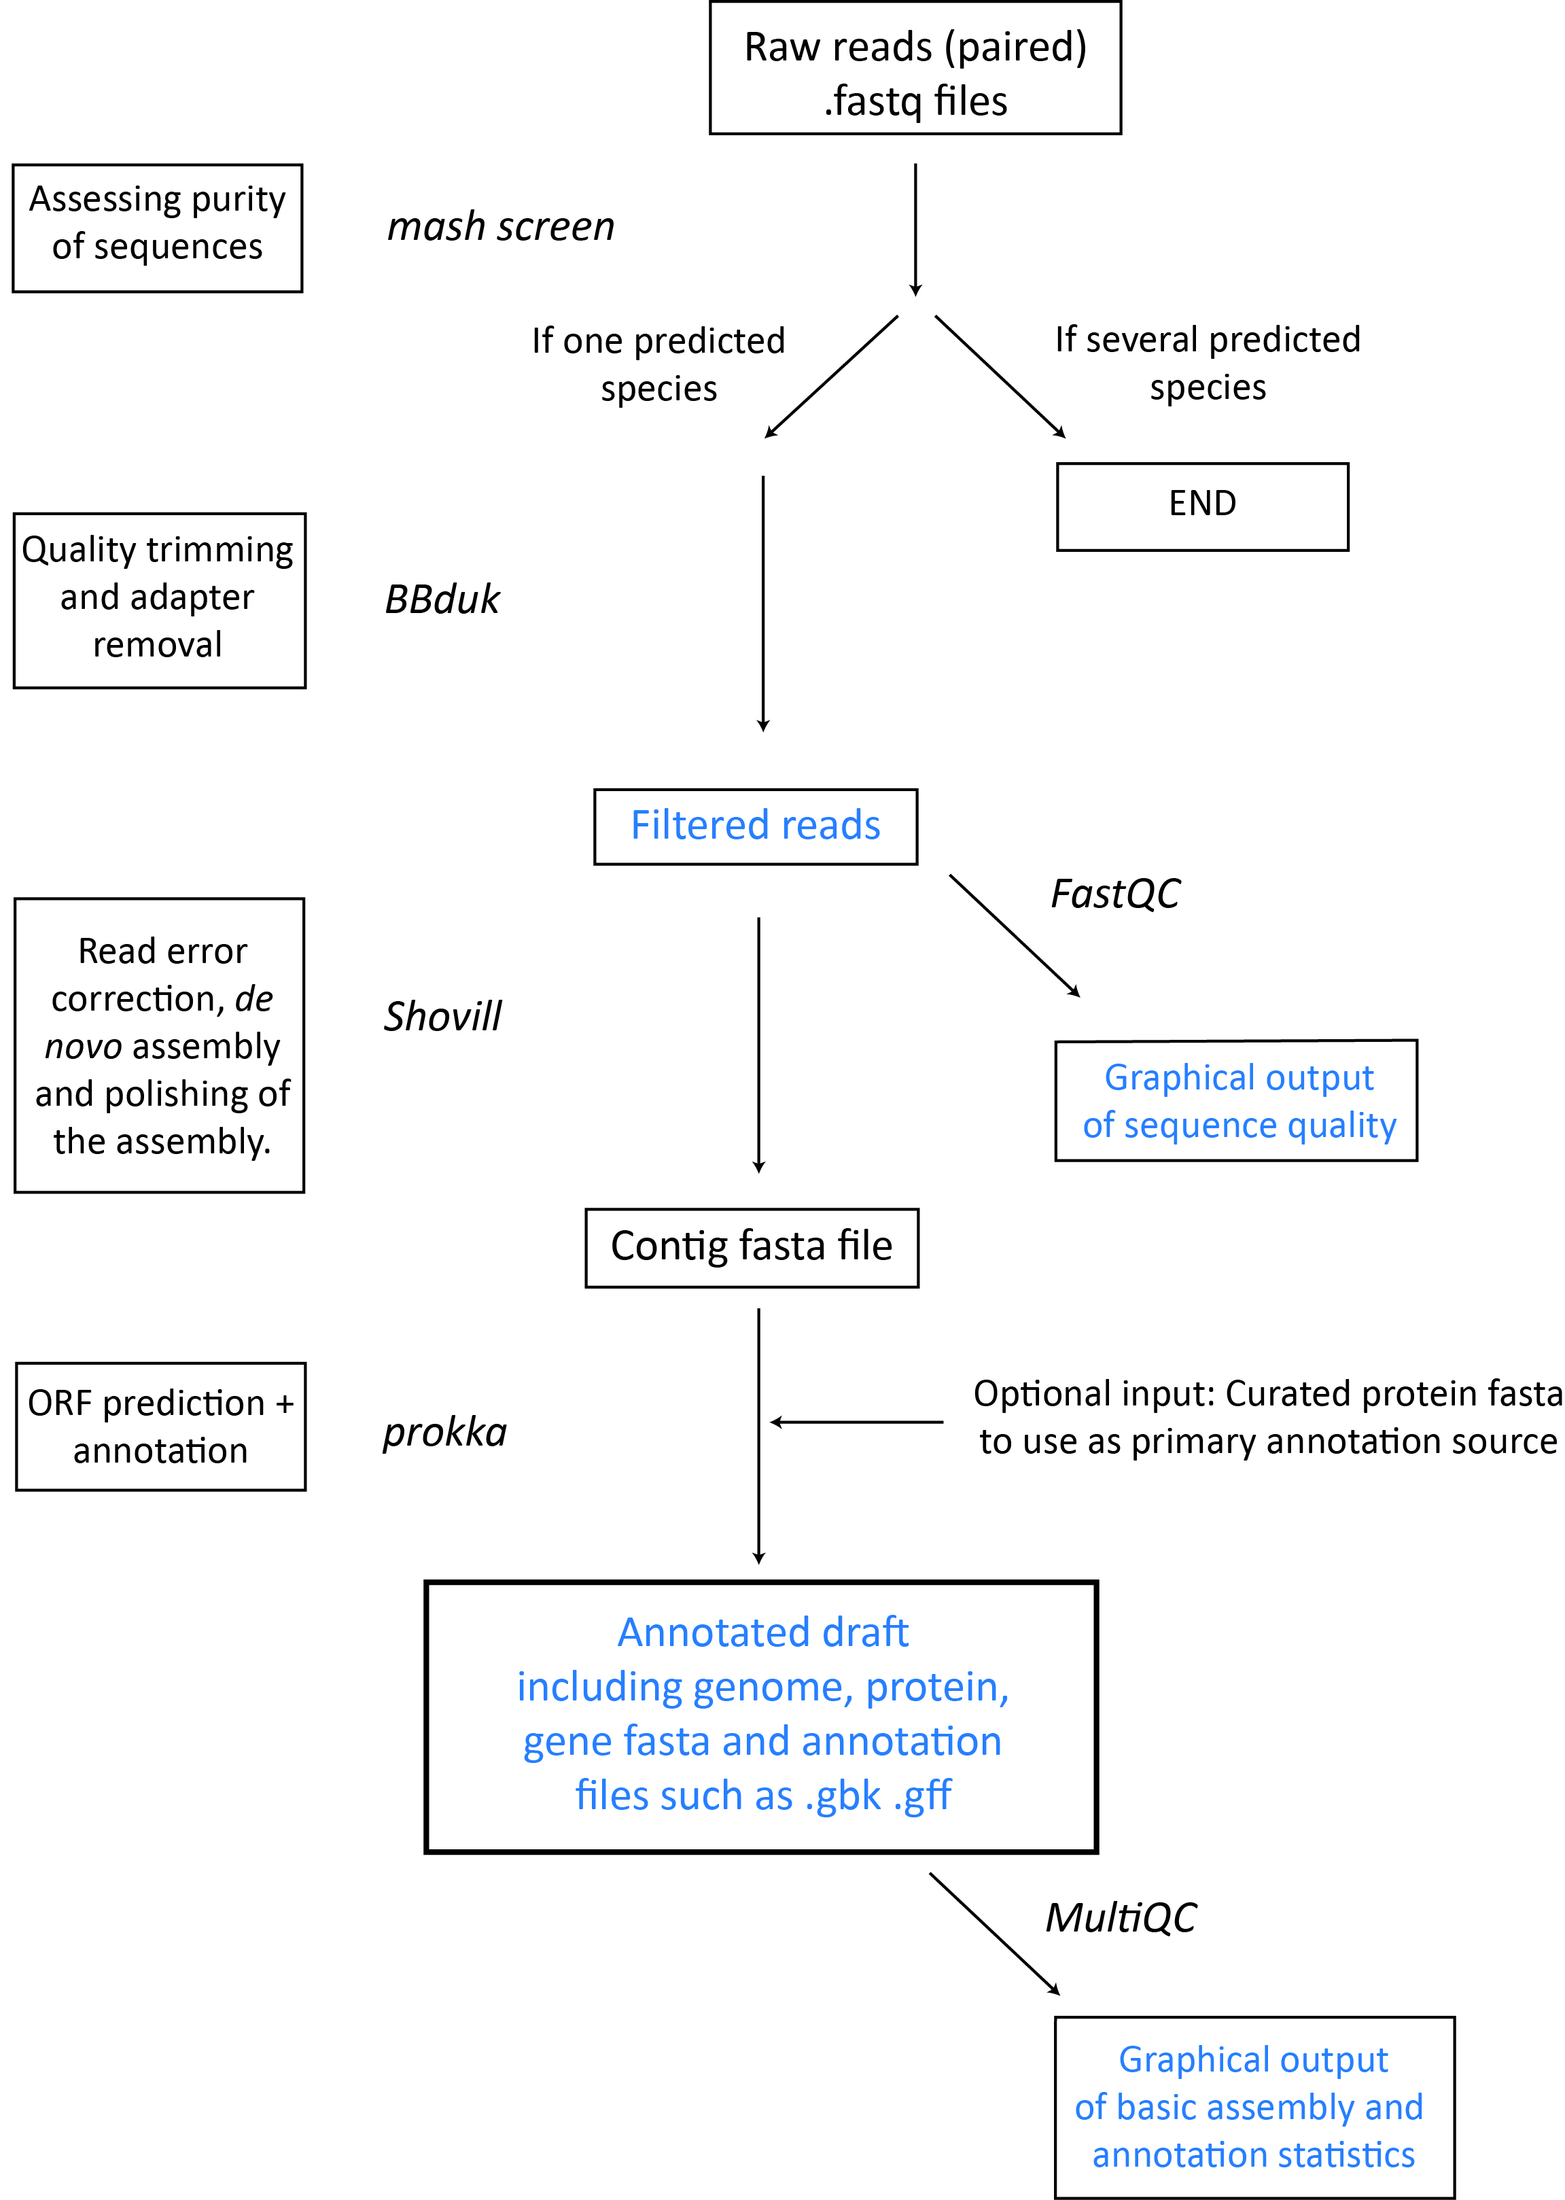
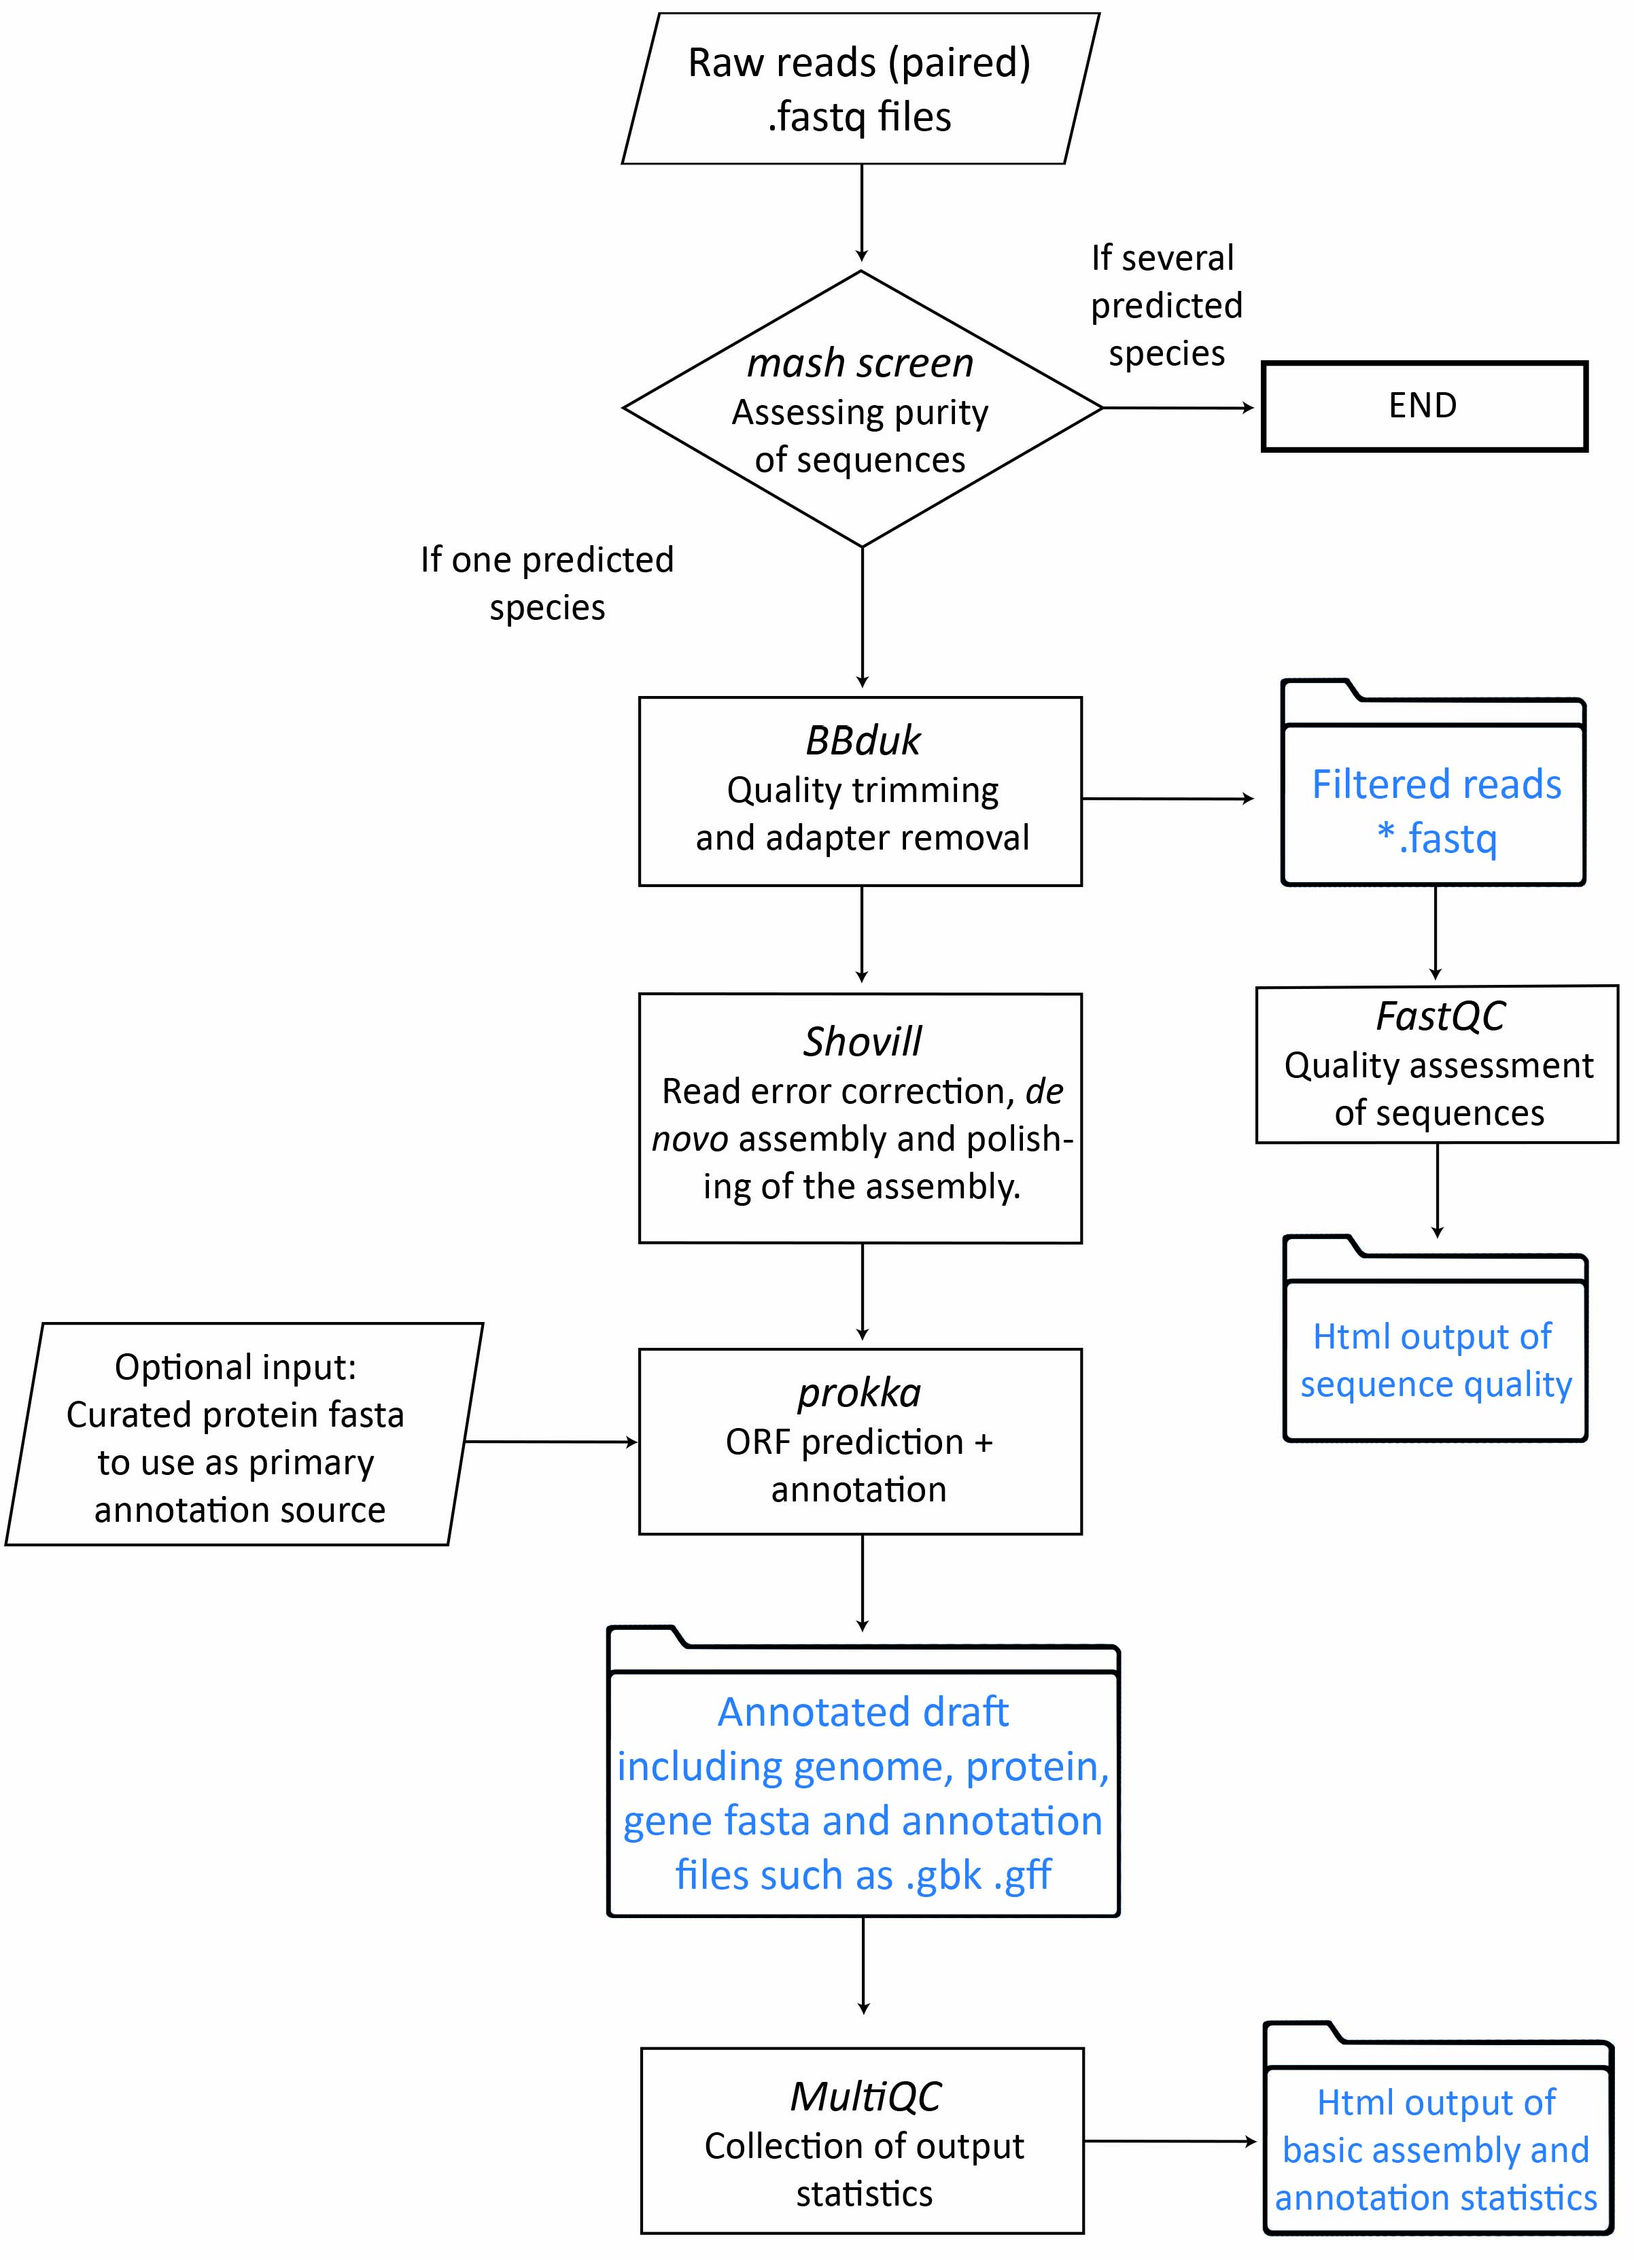
Add new flowchart. Update README

diff --git a/README.md b/README.md
@@ -1,47 +1,38 @@
 # BACTpipe
-BACTpipe implemented in Nextflow.
-
-Bactpipe uses Nexflow as a workflow tool manager. It takes paired end fastq
-files as input and performs pre-processing, quality assessment, de novo
-assembly and annotation of the genome. 
+BACTpipe is a whole genome sequencing workflow. It does quality assessment of
+paired input reads, tries to assess if the sample contains mixed or pure
+isolates, performs de-novo assembly, and annotates the assembled genome.
+BACTpipe uses Nexflow as a workflow manager. 
 
 ![BACTpipe flowchart](./docs/source/img/BACTpipe_workflow.jpg)
 
 ## Documentation
 Complete documentation is available at https://bactpipe.readthedocs.io. 
 
+## Quick-start
+You need to have [Nextflow](https://www.nextflow.io) installed. The easiest way
+to get BACTpipe up and running is to install all other dependencies using
+[conda](https://conda.io/docs/). The following command installs the required
+software:
 
-## Requirements
-* nextflow.config file
-* Raw fastq format paired end read files
-* Adapters file
+    conda install java mash bbmap fastqc shovill multiqc 
 
+In order to run the contamination screening step, a mash screen database is
+required:
 
-## Dependencies
-Make sure to install the following software and have the executables in your `$PATH`:
-
-* Nextflow (https://www.nextflow.io/) `nextflow` executable to run the pipeline
-* tbl2asn (https://www.ncbi.nlm.nih.gov/genbank/tbl2asn2/) `tbl2asn` executable
-* `bbduk` executable from BBMap (https://github.com/BioInfoTools/BBMap)
+    https://gembox.cbcb.umd.edu/mash/refseq.genomes.k21s1000.msh
 
 
 ## Run bactpipe.nf 
-1. Modify the nextflow.config file including the 
+Nextflow makes it easy to run BACTpipe:
 
-* reads - Read input file format file, default `"*_{R1,R2}.fastq.gz"`
-* adapters - Path to bbduk `adapters.fa` file
-* prokka_ref - Path to the protein fasta file to be used as primary annotation source, for details, see https://github.com/tseemann/prokka#fasta-database-format
+    $ nextflow run ctmrbio/BACTpipe --mashscreen_database path/to/refseq.genomes.k21s1000.msh --reads 'path/to/reads/*_R{1,2}.fastq.gz'
 
-
-2. Provide  the path to the executable file `bactpipe.nf` in the folder containing the raw read files
-
-3. Invoke the nextflow script
-*  `nextflow run bactpipe.nf -profile ctmrnas --reads '*_R{1,2}.fastq.gz'`
-*  Options: `-resume` (in case you make a rerun from any step of the pipeline)
-
+This will run BACTpipe locally. To run in other environments, see the
+documentation at https://bactpipe.readthedocs.io
 
 ## License
-This pipeline is published under the MIT license 2017
+BACTpipe is published under the MIT license 2018
 
 
 ## Authors
